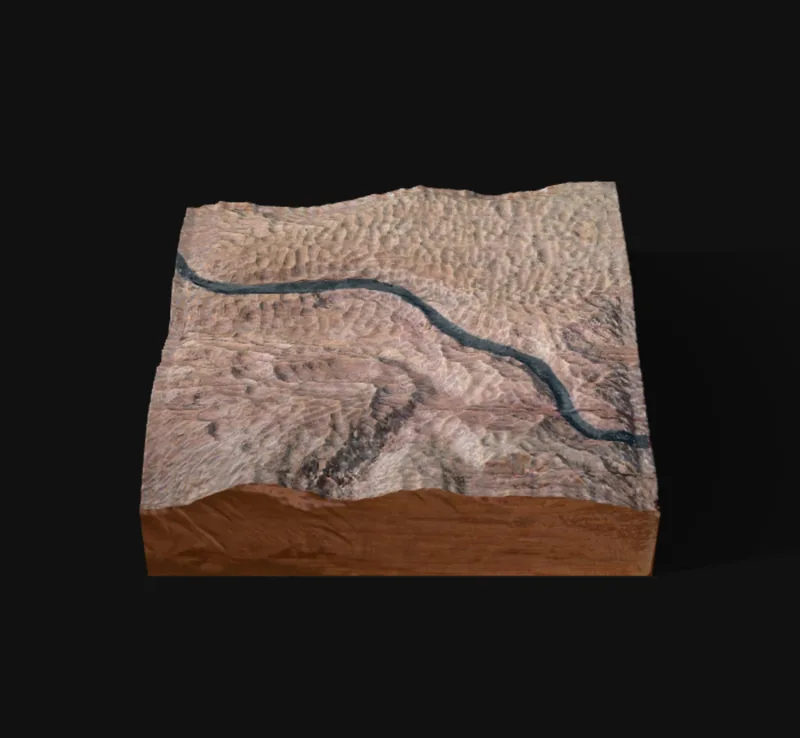
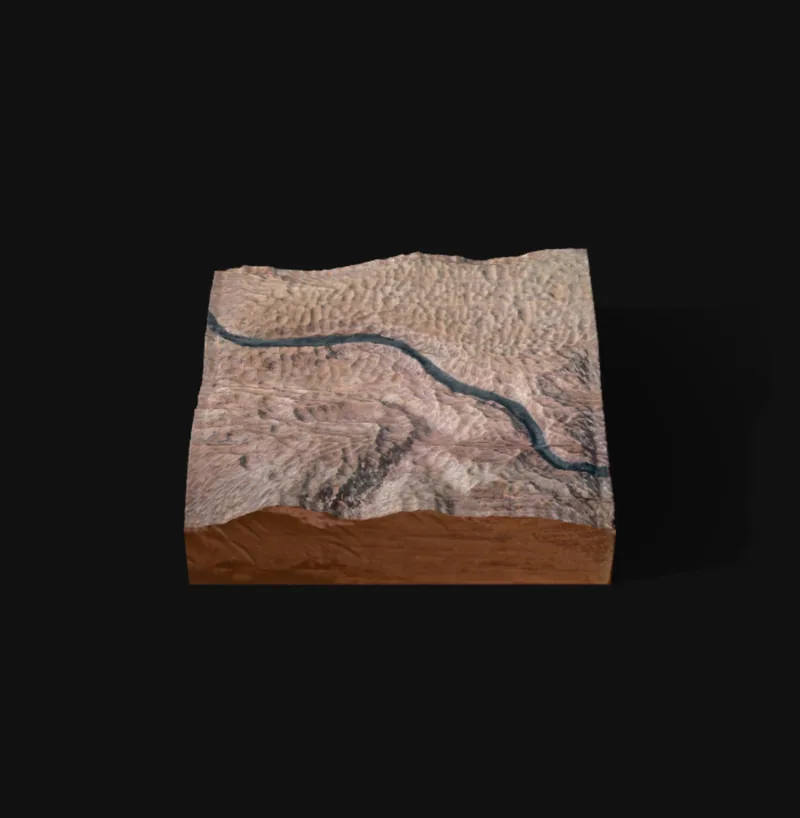
fix(diploma): the pause sits in the 360 degree arrow, the sun goes round the model
- The 360 degree arrow is drawn in two strokes with a gap in the middle, and
  the pause / play button sits in that gap, in the colour and weight of the
  arrow: one drawing rather than one more control.
- The sun no longer runs over the model: its path is an oval sized from the
  area the model sweeps on screen over a full turn (at least 53 pixels from
  it on a computer, 19 on a phone, under the compass). The model has a
  little more air in its frame, the view is a little taller on phones,
  where the sun is a little smaller (touch area unchanged).
- Posters rendered again at the new framing.

Changed region(s): [[0.1562, 0.2182, 0.8438, 0.7791]]

diff --git a/js/site-model/sun.js b/js/site-model/sun.js
@@ -8,25 +8,28 @@
 
 // Not down to the horizon (the wood went dark and the shadow ran off the view), and the dotted arc
 // stops exactly where the sun does: it showed further than the sun could go (Even, 26/10/2026).
-const MIN_DEG = window.matchMedia('(max-width: 768px)').matches ? 22 : 10; // a phone: clear of the rail
+const PHONE = window.matchMedia('(max-width: 768px)').matches;
+const MIN_DEG = PHONE ? 30 : 10; // a phone: clear of the rail
 const MAX_DEG = 170;
 // Rather low at first (about 35 degrees above the table), like the lamp of the photos: the chisel marks
 // stand out from the start (Even, 26/10/2026). On a phone the arc is tighter and the sun would sit
 // on the edge of the block: a little higher there.
-export const SUN_START_DEG = window.matchMedia('(max-width: 768px)').matches ? 152 : 142;
+export const SUN_START_DEG = PHONE ? 152 : 142;
 const KEY_STEP_DEG = 8;
 
 const clamp = degrees => Math.max(MIN_DEG, Math.min(MAX_DEG, degrees));
 
+/**
+ * The path of the sun: an oval around the model, never over it (Even, 27/10/2026). Its size comes
+ * from the area the model sweeps on screen over a full turn (measured, scratchpad emprise.py): on
+ * a computer the sun stays at least 40 pixels from it, on a phone 18, and the top of the oval
+ * stays under the compass.
+ */
 function arcOf(stage) {
     const width = stage.clientWidth;
     const height = stage.clientHeight;
-    // On a phone the arc is shifted a little to the left: it stops short of the column of controls
-    // on the right, and the sun starts beside the block rather than on its corner.
-    // The top of the arc stays under the compass (review, 27/10/2026: the sun at its highest ran
-    // into it).
-    const phone = width < 600;
-    return { width, height, cx: width * (phone ? 0.44 : 0.5), cy: height * 0.7, r: Math.min(width * (phone ? 0.43 : 0.44), height * 0.58) };
+    const shape = PHONE ? { cx: 0.5, cy: 0.44, rx: 0.41, ry: 0.24 } : { cx: 0.49, cy: 0.4, rx: 0.47, ry: 0.3 };
+    return { width, height, cx: width * shape.cx, cy: height * shape.cy, rx: width * shape.rx, ry: height * shape.ry };
 }
 
 /**
@@ -39,7 +42,7 @@ export function createSun(stage, handle, path, apply) {
     let grabbed = false;
     const place = () => {
         const a = angle * Math.PI / 180;
-        handle.style.transform = `translate3d(${(arc.cx + arc.r * Math.cos(a)).toFixed(1)}px, ${(arc.cy - arc.r * Math.sin(a)).toFixed(1)}px, 0)`;
+        handle.style.transform = `translate3d(${(arc.cx + arc.rx * Math.cos(a)).toFixed(1)}px, ${(arc.cy - arc.ry * Math.sin(a)).toFixed(1)}px, 0)`;
         handle.setAttribute('aria-valuenow', String(Math.round(angle)));
     };
     const set = degrees => {
@@ -49,8 +52,8 @@ export function createSun(stage, handle, path, apply) {
     };
     const follow = event => {
         const box = stage.getBoundingClientRect();
-        const x = event.clientX - box.left - arc.cx;
-        const y = arc.cy - (event.clientY - box.top);
+        const x = (event.clientX - box.left - arc.cx) / arc.rx;
+        const y = (arc.cy - (event.clientY - box.top)) / arc.ry;
         // Under the horizon line, the sun stays at the end of its arc on that side.
         set(y < 0 ? (x < 0 ? MAX_DEG : MIN_DEG) : Math.atan2(y, x) * 180 / Math.PI);
     };
@@ -83,9 +86,9 @@ export function createSun(stage, handle, path, apply) {
         path.ownerSVGElement.setAttribute('viewBox', `0 0 ${arc.width} ${arc.height}`);
         const end = degrees => {
             const a = degrees * Math.PI / 180;
-            return `${(arc.cx + arc.r * Math.cos(a)).toFixed(1)} ${(arc.cy - arc.r * Math.sin(a)).toFixed(1)}`;
+            return `${(arc.cx + arc.rx * Math.cos(a)).toFixed(1)} ${(arc.cy - arc.ry * Math.sin(a)).toFixed(1)}`;
         };
-        path.setAttribute('d', `M ${end(MAX_DEG)} A ${arc.r} ${arc.r} 0 0 1 ${end(MIN_DEG)}`);
+        path.setAttribute('d', `M ${end(MAX_DEG)} A ${arc.rx.toFixed(1)} ${arc.ry.toFixed(1)} 0 0 1 ${end(MIN_DEG)}`);
         place();
     };
     set(angle);

diff --git a/index.html b/index.html
@@ -1265,7 +1265,7 @@
                             <div class="site-model-frame">
                                 <div class="site-model-stage" tabindex="0" role="slider" aria-orientation="horizontal" aria-valuemin="0" aria-valuemax="359" aria-valuenow="0" aria-label="Maquette de site en 3D : glissez à gauche ou à droite, ou utilisez les flèches du clavier, pour la faire tourner" data-i18n-aria="aria_model_turn">
                                     <picture>
-                                        <source media="(max-width: 768px)" srcset="assets/maquette/maquette-v7-affiche-tel.webp" width="800" height="738">
+                                        <source media="(max-width: 768px)" srcset="assets/maquette/maquette-v7-affiche-tel.webp" width="800" height="818">
                                         <img class="site-model-poster" src="assets/maquette/maquette-v7-affiche.webp" alt="Maquette de site en bois massif, taillée au ciseau à bois" data-i18n-alt="alt_model_poster" width="1600" height="1002" loading="lazy" decoding="async">
                                     </picture>
                                     <canvas class="site-model-canvas" aria-hidden="true"></canvas>
@@ -1291,9 +1291,9 @@
                                 </div>
                                 <div class="site-model-turn">
                                     <svg class="site-model-turn-arrow" viewBox="0 0 300 100" aria-hidden="true">
-                                        <g class="sketch-frame-1"><path d="M22 36 C44 80, 256 80, 278 36"/><path d="M266 30 L279 36 L271 49"/><path d="M34 30 L21 36 L29 49"/></g>
-                                        <g class="sketch-frame-2"><path d="M23 38 C47 78, 252 82, 277 34"/><path d="M264 31 L278 34 L272 47"/><path d="M35 32 L23 38 L28 50"/></g>
-                                        <g class="sketch-frame-3"><path d="M21 35 Q150 98 279 37"/><path d="M267 29 L279 37 L270 50"/><path d="M33 29 L21 35 L30 48"/></g>
+                                        <g class="sketch-frame-1"><path d="M22 36 C33 58, 70 69, 131 69"/><path d="M169 69 C230 69, 267 58, 278 36"/><path d="M266 30 L279 36 L271 49"/><path d="M34 30 L21 36 L29 49"/></g>
+                                        <g class="sketch-frame-2"><path d="M23 38 C35 59, 72 70, 130 70.5"/><path d="M170 69.5 C228 70, 266 57, 277 34"/><path d="M264 31 L278 34 L272 47"/><path d="M35 32 L23 38 L28 50"/></g>
+                                        <g class="sketch-frame-3"><path d="M21 35 Q60 70 132 68.5"/><path d="M168 68.5 Q240 70 279 37"/><path d="M267 29 L279 37 L270 50"/><path d="M33 29 L21 35 L30 48"/></g>
                                         <text x="150" y="96" text-anchor="middle">360°</text>
                                     </svg>
                                     <button class="site-model-autoturn" type="button" aria-pressed="true" aria-label="Rotation automatique de la maquette" data-i18n-aria="aria_model_autoturn" title="Pause ou lecture de la rotation" data-i18n-title="title_model_autoturn">

diff --git a/css/site-model.css b/css/site-model.css
@@ -364,13 +364,13 @@
     overflow: visible;
 }
 
-/* Pause or play of the slow turn, between the two heads of the 360 degree arrow (Even,
-   27/10/2026), drawn by hand like the other controls, red on hover like the arrows of the
-   carousels. */
+/* Pause or play of the slow turn, set in a gap of the 360 degree arrow itself (Even, 27/10/2026),
+   in the colour and weight of the arrow: one drawing, not one more control. Red on hover with a
+   mouse, like the arrows of the carousels. */
 .site-model-autoturn {
     position: absolute;
     left: 50%;
-    top: 40%;
+    top: 69%;
     display: grid;
     place-items: center;
     width: 44px;
@@ -378,7 +378,7 @@
     padding: 0;
     border: 0;
     background: none;
-    color: rgb(255 255 255 / 80%);
+    color: rgb(255 255 255 / 55%);
     cursor: pointer;
     pointer-events: auto;
     transform: translate(-50%, -50%);
@@ -392,11 +392,11 @@
 }
 
 .site-model-autoturn svg {
-    width: 26px;
-    height: 26px;
+    width: 22px;
+    height: 22px;
     fill: none;
     stroke: currentcolor;
-    stroke-width: 3;
+    stroke-width: 4.6;
     stroke-linecap: round;
     stroke-linejoin: round;
 }
@@ -709,7 +709,7 @@
         padding-right: 0;
         padding-bottom: 48px;
     }
-    .site-model-stage { aspect-ratio: 1 / 0.92; }
+    .site-model-stage { aspect-ratio: 1 / 1.02; }
 
     .site-model-rail {
         right: 0;
@@ -750,6 +750,18 @@
     }
 
     /* Moved by the script just above the 3D: close to the model it turns. */
+
+    /* A smaller sun on a phone (the touch area stays 44 pixels): air between it and the block. */
+    .site-model-sun {
+        display: grid;
+        place-items: center;
+    }
+
+    .site-model-sun svg {
+        width: 34px;
+        height: 34px;
+    }
+
     .site-model-polaroid-wrap {
         width: 170px;
         margin: 6px auto 0;

diff --git a/js/site-model/scene.js b/js/site-model/scene.js
@@ -15,7 +15,9 @@ import { buildSheet } from './sheet.js';
 
 const ELEVATION_DEG = 40;
 const FIELD_DEG = 24;
-const FRAME_MARGIN = 1.14; // air around the block for the sun, the arc and the arrows
+// Air around the block, so that the sun goes round it without ever running over it (Even,
+// 27/10/2026); more on a phone, where the block would otherwise fill the width.
+const FRAME_MARGIN = window.matchMedia('(max-width: 768px)').matches ? 1.36 : 1.22;
 const SKIRT_COLOUR = 0x8f5f49; // the edge of the site view while it comes down: the brown of the sawn sides
 // The site view's grid: finer than the wooden top, lighter on phones.
 const SHEET_COLUMNS = window.matchMedia('(max-width: 768px)').matches ? 360 : 600;
